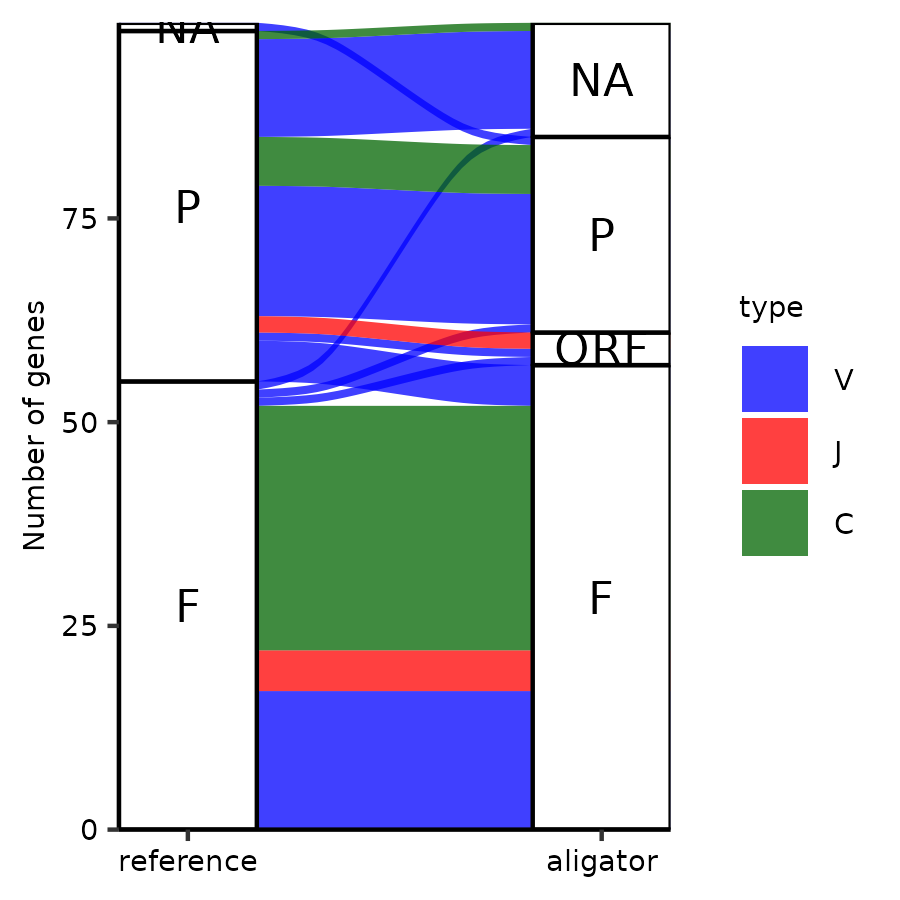
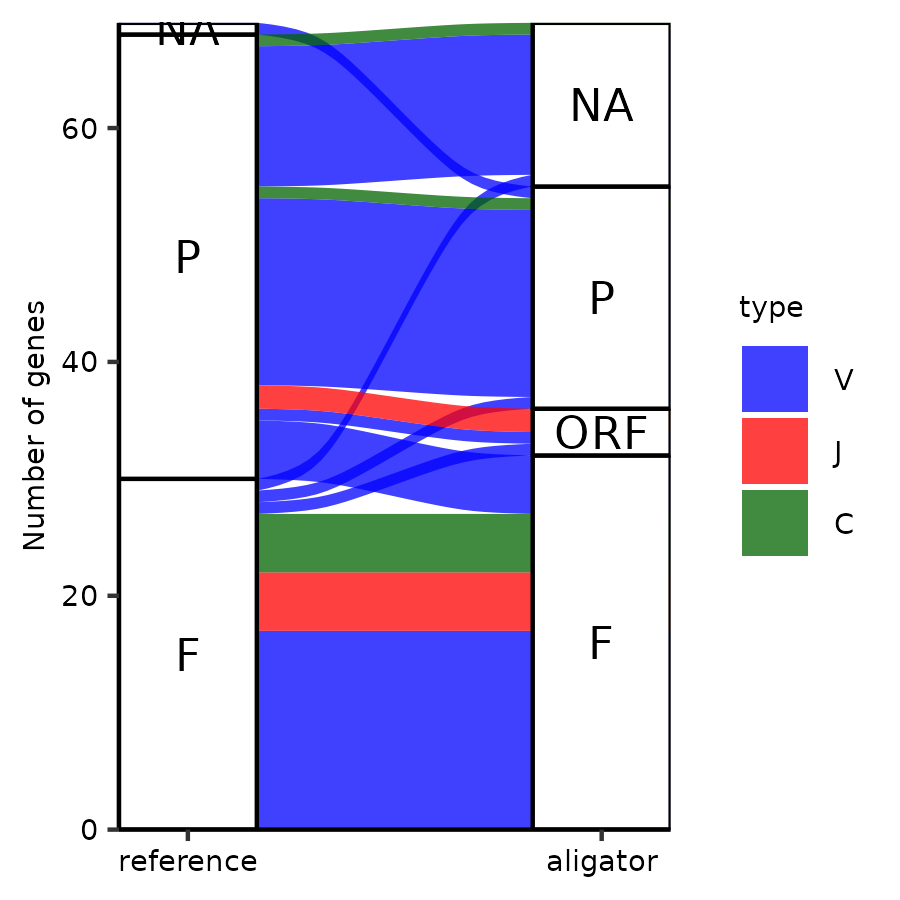
fix duplicate annotations of IGLC

diff --git a/annotator.py b/annotator.py
@@ -173,10 +173,10 @@ def main():
 						writer.writerow(row)
 
 				#Run a merge, but not for single-exon C genes
+				d=5000
 				if arguments['LOCUS'] in ['IGK','IGL']:
-					blastHits = BedTool( f"annoTemp/repairedBlastHits_{arguments['LOCUS']}{gene}.bed" ).each(recoverBestC).saveas( f"annoTemp/uniqueHits_{arguments['LOCUS']}{gene}.bed" )
-				else:
-					blastHits = BedTool( f"annoTemp/repairedBlastHits_{arguments['LOCUS']}{gene}.bed" ).merge( s=True, d=5000, c="4,5,6", o="distinct,max,first" ).each(recoverBestC).saveas( f"annoTemp/uniqueHits_{arguments['LOCUS']}{gene}.bed" )
+					d=0
+				blastHits = BedTool( f"annoTemp/repairedBlastHits_{arguments['LOCUS']}{gene}.bed" ).merge( s=True, d=d, c="4,5,6", o="distinct,max,first" ).each(recoverBestC).saveas( f"annoTemp/uniqueHits_{arguments['LOCUS']}{gene}.bed" )
 
 			except:
 				print(f"Warning: bedtools merge failed for {arguments['LOCUS']}C. Maybe no blast hits were found on this contig?\nSkipping...\n\n", file=sys.stderr)
